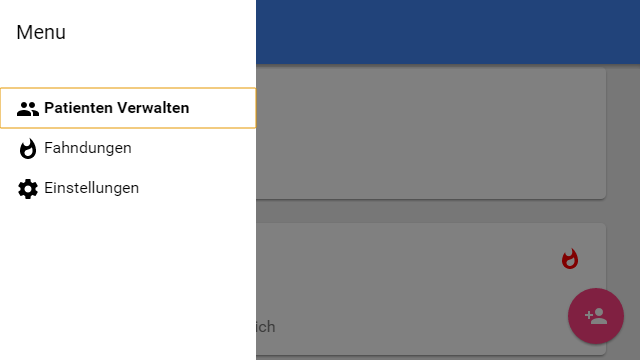
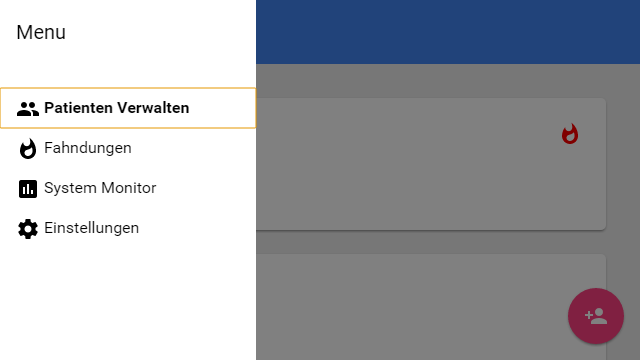
Systemmonitor

diff --git a/chapter/23_umsetzung.tex b/chapter/23_umsetzung.tex
@@ -160,7 +160,8 @@ Die Benutzeroberfläche wurde unter Verwendung des Frameworks \textbf{Polymer} e
 Nachdem sich der Nutzer eingeloggt hat (vgl. Abbildung \ref{img:ui/login}) sieht er eine Liste aller Patienten im System. Patienten, nach denen aktuell gefahndet wird, werden dabei mit einem roten Icon hervorgehoben (vgl. Abbildung \ref{img:ui/personenliste}). Eine Liste, die nur die gesuchten Patienten enthält, lässt sich über das Menü aufrufen (vgl. Abbildung \ref{img:ui/menu}). \newline
 Wählt der Nutzer in einer der Listen einen Patienten aus, so bekommt er weitere Details und verfügbare Aktionen angezeigt. Bei den Details handelt es sich um zuvor hinterlegten Informationen, wie das Aussehen und die Anmerkungen, sowie die Sichtungen im Falle einer aktiven Fahndung. Verfügbare Aktionen sind das Starten bzw. Stoppen einer Fahndung, das Löschen und Bearbeiten des Patienten und die Verwaltung der Marken (vgl. Abbildung \ref{img:ui/persondetails}). \newline
 Startet der Nutzer die Markenverwaltung, so bekommt er zunächst die für den Patienten hinterlegten Marken aufgelistet und kann diese entfernen oder als gefunden markieren (vgl. Abbildung \ref{img:ui/markenverwalten}). Außerdem hat er die Möglichkeit dem Patienten eine neue Marke zuzuordnen (vgl. Abbildung \ref{img:ui/markehinzufuegen}). \newline
-Neue Patienten werden über einen Button in der Liste hinzugefügt. Dieser öffnet ein Dialogfenster, in dem Details zum Patienten hinterlegt werden können (vgl. Abbildung \ref{img:ui/personhinzufuegen}).
+Neue Patienten werden über einen Button in der Liste hinzugefügt. Dieser öffnet ein Dialogfenster, in dem Details zum Patienten hinterlegt werden können (vgl. Abbildung \ref{img:ui/personhinzufuegen}).\newline
+Der dritte Menüpunkt, der "System Monitor", bietet Informationen zum Status des Systems. Dort kann auf die Logdaten des Servers zugegriffen werden und die Zeit seit dem letzten Lebenszeichen der einzelnen DeSearch-Boxen steht zur Verfügung. In Abbildung \ref{img:ui/systemMonitor} ist der Systemmonitor bei einem simulierten Ausfall des \enquote{pi9} zu sehen. Im unteren Teil des Screenshots ist der Log des Servers zu sehen, dieser enthält in diesem Fall nur geloggte HTTP-Anfragen, dort wären aber auch unbehandelte Exceptions zu sehen.
 
 \begin{figure}
 	\centering
@@ -210,6 +211,15 @@ Neue Patienten werden über einen Button in der Liste hinzugefügt. Dieser öffn
 	\caption{Neue Marken einem Patienten zuordnen}
 	\label{img:ui/markehinzufuegen}
 \end{figure}
+
+
+\begin{figure}
+	\centering
+	\includegraphics[width=1.0\linewidth]{images/ui/systemMonitor}
+	\caption[System Monitor]{System Monitor - Beispiel für Ausfall von \enquote{pi9}}
+	\label{img:ui/systemMonitor}
+\end{figure}
+
 
 \subsubsection{Administrative Benutzeroberfläche}
 In der aktuellen Umsetzung gibt es noch keine Administrative Benutzeroberfläche. Zum Hinzufügen und Löschen von Nutzern steht allerdings ein Skript zur Verfügung, das unter  \texttt{/opt/desearch-server/userManagement.py} ausgeführt werden kann (vgl. Abbildung \ref{img:userManagement}).
